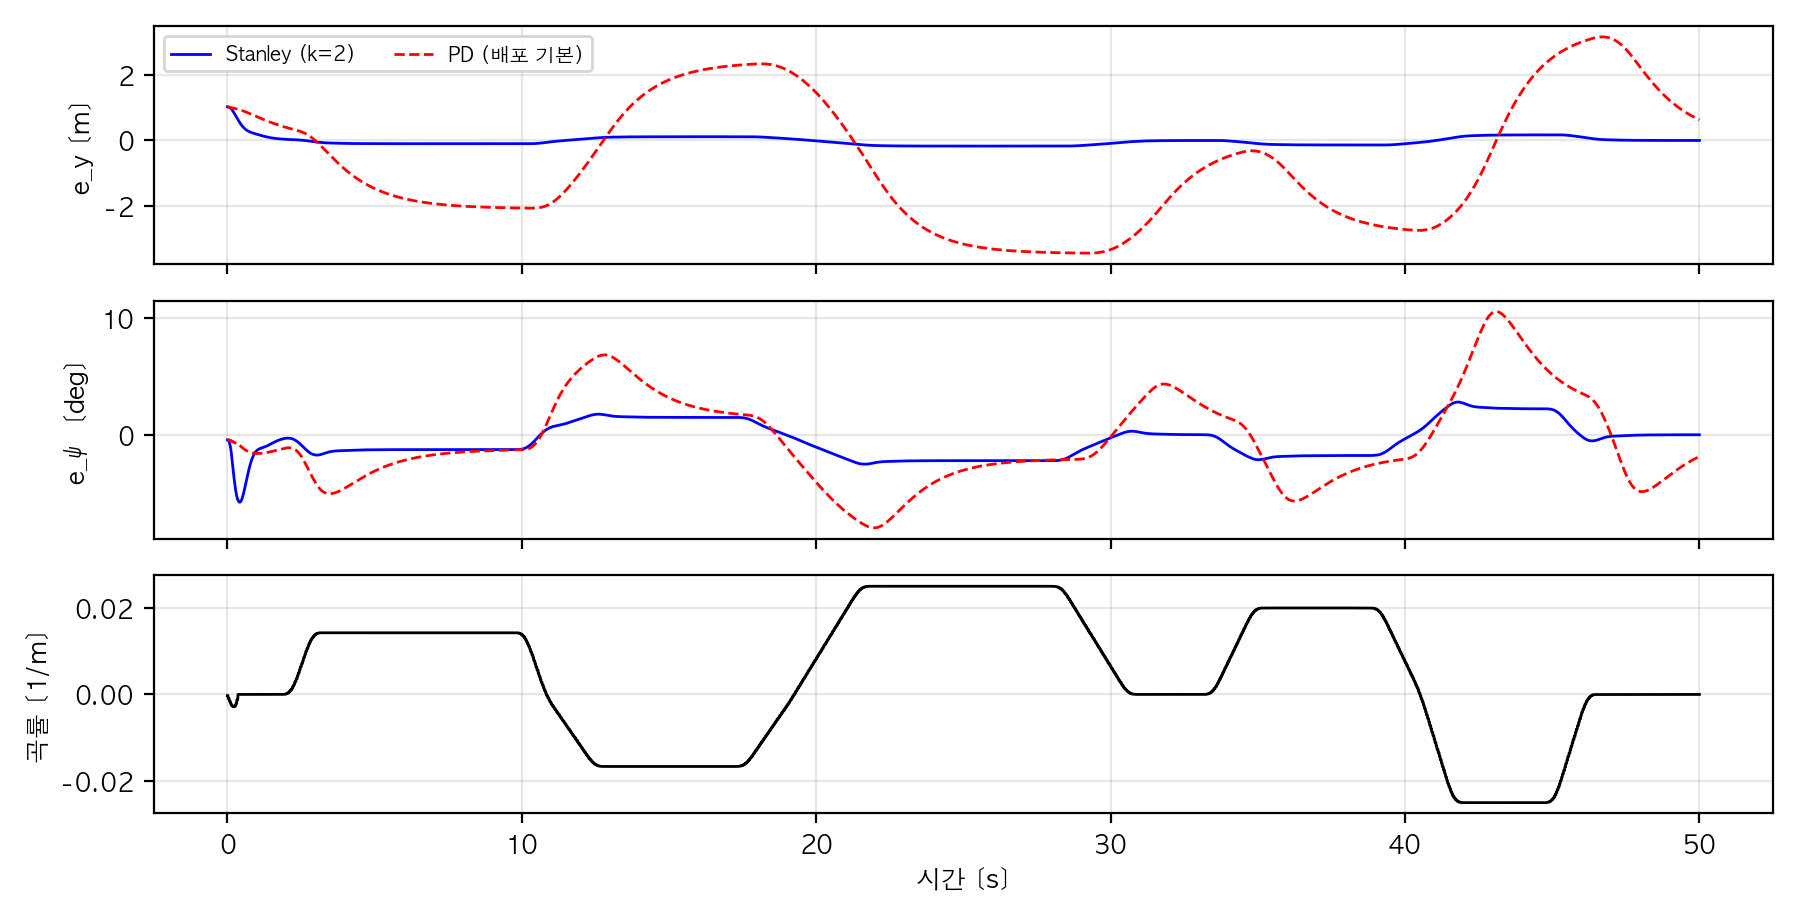
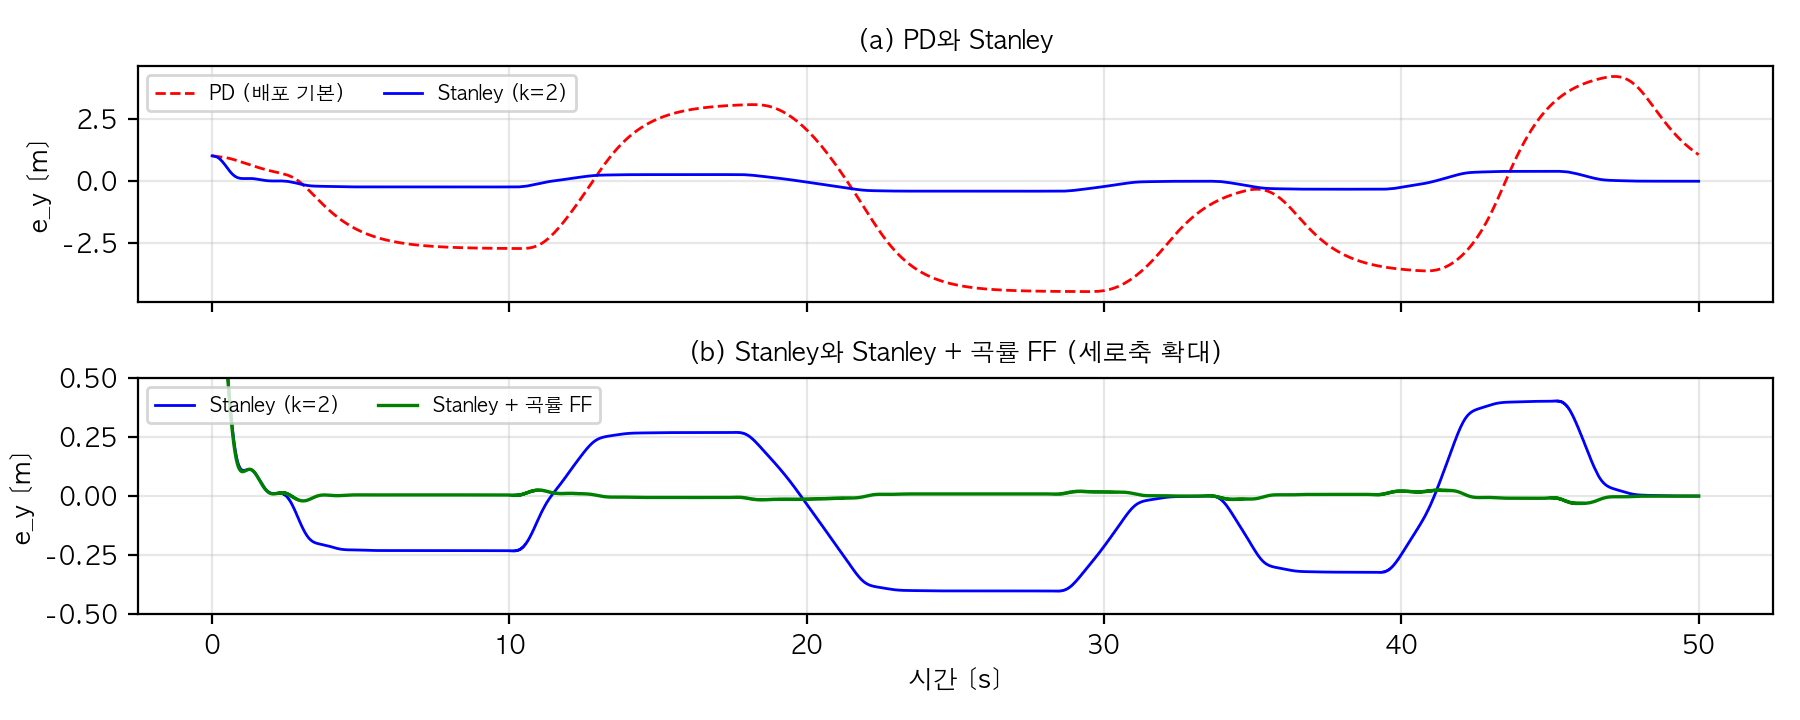
Add curvature feedforward with derived steady-state error; speed sweep
- Stanley_Control: curv input, delta_ff = kappa*(Lf + Kv*v^2), toggled by ff_st (default 0)
- add_stanley_block: idempotent, wires missing inputs only
- run_stanley_eval: Stanley/Stanley+FF/PD table, gain sweep, 30/50/70 km/h sweep with theory column
- figures and metrics regenerated from Simulink

diff --git a/matlab/run_stanley_eval.m b/matlab/run_stanley_eval.m
@@ -1,21 +1,26 @@
-%% run_stanley_eval.m  경로 4종 x 차량모델 2종 x 제어기 2종 + 게인 스윕, Simulink 일괄 실행
+%% run_stanley_eval.m  Stanley 평가 일괄 실행 (Simulink)
 % add_stanley_block 적용한 배포 폴더를 현재 폴더로 두고 실행 (결과: stanley_eval.mat)
 % 주의: 현재 폴더·MATLAB 경로에 한글 폴더가 있으면 MATLAB Function 블록 컴파일 실패
+%   T  : 경로 4종 x 차량모델 2종 x {Stanley, Stanley+FF, PD}
+%   S  : 게인 스윕 (순수 Stanley, 직선·레이스트랙)
+%   V  : 속도 스윕 (원형·레이스트랙, 30/50/70 km/h, FF 유무) + 원형 정상상태 오차 이론값
 clear; close all; clc
 mdl = 'PathTracking_26_02_261111';
 load_system(mdl);
 names = {'linear','circular','right_turn','racetrack'};
 rmse  = @(x) sqrt(mean(x.^2));
+P = struct('L', 2.7, 'lf', 1.08, 'lr', 1.62, 'm', 1573, 'Cf', 1.6e5);   % 정상상태 이론값용
 
 rows = {}; logs = struct();
+cfg = {'stanley', 2, 0; 'stanley_ff', 2, 1; 'pd', 1, 0};
 for Path_mode = 1:4
-    for vm = 1:2                    % 1 : kinematic / 2 : dynamic
-        for cm = [2 1]              % 2 : Stanley / 1 : PID 블록(배포 기본 PD)
-            o = run1(mdl, Path_mode, vm, cm, 2.0);
+    for vm = 1:2                                % 1 : kinematic / 2 : dynamic
+        for c = 1:size(cfg, 1)
+            o = run1(mdl, Path_mode, vm, cfg{c, 2}, 2.0, cfg{c, 3}, 50/3.6);
             last5 = o.t >= o.t(end) - 5;
-            rows(end+1, :) = {names{Path_mode}, vm, cm, rmse(o.e_y), max(abs(o.e_y)), ...
+            rows(end+1, :) = {names{Path_mode}, vm, cfg{c, 1}, rmse(o.e_y), max(abs(o.e_y)), ...
                 rad2deg(rmse(o.e_yaw)), max(abs(o.Ay)), rmse(o.e_y(last5)), o.t(end)}; %#ok<SAGROW>
-            logs.(sprintf('%s_m%d_c%d', names{Path_mode}, vm, cm)) = o;
+            logs.(sprintf('%s_m%d_%s', names{Path_mode}, vm, cfg{c, 1})) = o;
         end
     end
 end
@@ -24,7 +29,7 @@ sweep = {};
 for vm = 1:2
     for kk = [0.5 1 1.5 2 2.5 3 4]
         for Path_mode = [1 4]
-            o = run1(mdl, Path_mode, vm, 2, kk);
+            o = run1(mdl, Path_mode, vm, 2, kk, 0, 50/3.6);
             bad = find(abs(o.e_y) >= 0.05, 1, 'last');
             ts = NaN; if bad < numel(o.t), ts = o.t(bad+1); end
             sweep(end+1, :) = {names{Path_mode}, vm, kk, rmse(o.e_y), max(abs(o.Ay)), ts, -min(o.e_y)}; %#ok<SAGROW>
@@ -34,23 +39,44 @@ for vm = 1:2
         end
     end
 end
+
+spd = {};
+for v_kph = [30 50 70]
+    v = v_kph/3.6;
+    for vm = 1:2
+        for ff = [0 1]
+            oc = run1(mdl, 2, vm, 2, 2.0, ff, v);              % 원형 R = 100 m
+            ss = oc.t >= oc.t(end) - 10;
+            kap = 0.01; beta_ss = P.lr*kap - (vm == 2)*P.m*P.lf*v^2*kap/(P.L*P.Cf);
+            e_fa = -(v + 1)/2*kap*(P.lf + (vm == 2)*P.m*P.lr*v^2/(P.L*P.Cf));
+            e_th = (1 - ff)*(e_fa + P.lf*sin(beta_ss));          % 무게중심 기준 이론 정상상태 오차
+            orr = run1(mdl, 4, vm, 2, 2.0, ff, v);             % 레이스트랙
+            spd(end+1, :) = {v_kph, vm, ff, mean(oc.e_y(ss)), e_th, rmse(orr.e_y), max(abs(orr.e_y)), max(abs(orr.Ay))}; %#ok<SAGROW>
+        end
+    end
+end
 close_system(mdl, 0);
 
 T = cell2table(rows, 'VariableNames', {'path','vehicle','ctrl','rmse_ey','max_ey','rmse_eyaw_deg','max_ay','ey_last5','t_end'});
 S = cell2table(sweep, 'VariableNames', {'path','vehicle','k','rmse_ey','max_ay','settle_5cm','overshoot'});
-disp(T); disp(S);
-save('stanley_eval.mat', 'T', 'S', 'logs');
+V = cell2table(spd, 'VariableNames', {'v_kph','vehicle','ff','circ_ss_ey','circ_ss_theory','race_rmse','race_max_ey','race_max_ay'});
+disp(T); disp(S); disp(V);
+save('stanley_eval.mat', 'T', 'S', 'V', 'logs');
 
 
-function o = run1(mdl, Path_mode, vm, cm, k)
+function o = run1(mdl, Path_mode, vm, cm, k, ff, v0)
 % 모델 InitFcn 이 기본 작업공간에서 init_param 을 다시 부르므로 변수는 base 에 둔다
-    vals = {'Path_mode', Path_mode; 'ey0', 1.0; 'ephi0', 0; 'k_st', k; 'Controller_mode', cm; ...
-            'sim_time', 50.0; 'Ts', 0.01};
+    vals = {'Path_mode', Path_mode; 'ey0', 1.0; 'ephi0', 0; 'k_st', k; 'ff_st', ff; ...
+            'Controller_mode', cm; 'sim_time', 50.0; 'Ts', 0.01};
     for i = 1:size(vals, 1), assignin('base', vals{i, 1}, vals{i, 2}); end
     evalin('base', 'init_param;');
     in = Simulink.SimulationInput(mdl);
     in = in.setBlockParameter([mdl '/Vis_on'], 'Value', 'false');
     in = in.setBlockParameter([mdl '/2DOF Bicycle  Model/Vehicle Model'], 'Value', num2str(vm));
+    assignin('base', 'v_run', v0);                                % 등속 주행 속도 (Vx0 · Vx_max 대신)
+    vi = [mdl '/2DOF Bicycle  Model/Discrete-Time' newline 'Integrator1'];
+    in = in.setBlockParameter(vi, 'InitialCondition', 'v_run');
+    in = in.setBlockParameter(vi, 'UpperSaturationLimit', 'v_run');
     out = sim(in);
     o = struct('t', out.get('tout'), 'X', out.get('X_msr'), 'Y', out.get('Y_msr'), 'e_y', out.get('e_y'), ...
                'e_yaw', out.get('e_yaw'), 'SWA_act', out.get('SWA_act_rad'), 'Ay', out.get('Ay'), ...

diff --git a/matlab/add_stanley_block.m b/matlab/add_stanley_block.m
@@ -1,13 +1,14 @@
 function add_stanley_block(dist_dir)
-%ADD_STANLEY_BLOCK  배포 모델에 Stanley Control 블록을 삽입 (1회 실행)
-%   add_stanley_block('…/실습 1차 배포 버전(261111)')
+%ADD_STANLEY_BLOCK  배포 모델에 Stanley Control 블록을 삽입하거나 최신 코드로 갱신
+%   add_stanley_block('<배포 폴더>')     % 여러 번 실행해도 됨
 %
-%   1) 원본 .slx 를 *_backup.slx 로 복사
-%   2) Path Tracking Controller 안에 MATLAB Function 블록 'Stanley Control' 추가
-%      (k_st, eps_st, Lf_st 는 작업공간 Parameter)
-%   3) From(e_y, e_yaw, vx) -> Stanley -> Multiport Switch 3번 포트(데이터 2번) 연결
+%   1) 원본 .slx 를 *_backup.slx 로 복사 (최초 1회)
+%   2) Path Tracking Controller 안에 MATLAB Function 블록 'Stanley Control' 추가 또는 코드 갱신
+%      (k_st, eps_st, Lf_st, Kv_st, ff_st 는 작업공간 Parameter)
+%   3) From(e_y, e_yaw, vx, curv) -> Stanley -> Multiport Switch 3번 포트(데이터 2번) 연결 (빠진 것만)
 %   4) Controller 상수를 변수 Controller_mode 로 바꿈 (1=PID, 2=Stanley)
 %   5) stanley_param.m 을 배포 폴더에 복사, init_param.m 끝에 호출 추가
+%   주의: 시뮬레이션은 한글 없는 경로에서 실행해야 함 (MATLAB Function 블록 컴파일 실패)
 
     here = fileparts(mfilename('fullpath'));
     mdl  = 'PathTracking_26_02_261111';
@@ -20,34 +21,39 @@ function add_stanley_block(dist_dir)
     sys = [mdl '/Path Tracking Controller'];
     blk = [sys '/Stanley Control'];
     sw  = [sys '/Multiport' newline 'Switch'];
-    if getSimulinkBlockHandle(blk) > 0
-        error('Stanley Control 블록이 이미 있음. 백업(%s)에서 복원 후 재실행', bak);
-    end
 
-    % --- MATLAB Function 블록
-    p = get_param([sys '/PID Control'], 'Position');
-    pos = p + [0 160 0 160];
-    add_block('simulink/User-Defined Functions/MATLAB Function', blk, 'Position', pos);
+    % --- MATLAB Function 블록 (없으면 생성)
+    if getSimulinkBlockHandle(blk) < 0
+        p = get_param([sys '/PID Control'], 'Position');
+        add_block('simulink/User-Defined Functions/MATLAB Function', blk, 'Position', p + [0 160 0 160]);
+    end
+    pos = get_param(blk, 'Position');
     ch = find(sfroot, '-isa', 'Stateflow.EMChart', 'Path', blk);
     ch.Script = fileread(fullfile(here, 'Stanley_Control.m'));
-    for n = {'k_st', 'eps_st', 'Lf_st'}
+    for n = {'k_st', 'eps_st', 'Lf_st', 'Kv_st', 'ff_st'}
         d = ch.find('-isa', 'Stateflow.Data', 'Name', n{1});
         d.Scope = 'Parameter';
     end
 
-    % --- 입력 From 블록 (Goto 태그는 서브시스템 안에 이미 있음)
-    tags = {'e_y', 'e_yaw', 'vx'};
-    for i = 1:3
+    % --- 입력 From 블록 : 연결 안 된 포트만 (Goto 태그는 서브시스템 안에 이미 있음)
+    tags = {'e_y', 'e_yaw', 'vx', 'curv'};
+    pc = get_param(blk, 'PortConnectivity');
+    for i = 1:numel(tags)
+        if pc(i).SrcBlock ~= -1, continue; end
         fb = sprintf('%s/From_st_%s', sys, tags{i});
-        add_block('simulink/Signal Routing/From', fb, 'GotoTag', tags{i}, ...
-            'Position', [pos(1)-120, pos(2)+20*(i-1), pos(1)-60, pos(2)+20*(i-1)+14]);
+        if getSimulinkBlockHandle(fb) < 0
+            add_block('simulink/Signal Routing/From', fb, 'GotoTag', tags{i}, ...
+                'Position', [pos(1)-120, pos(2)+20*(i-1), pos(1)-60, pos(2)+20*(i-1)+14]);
+        end
         add_line(sys, sprintf('From_st_%s/1', tags{i}), sprintf('Stanley Control/%d', i), ...
             'autorouting', 'on');
     end
 
-    % --- 스위치 포트 확장 + 연결
-    set_param(sw, 'Inputs', '2');
-    add_line(sys, 'Stanley Control/1', ['Multiport' newline 'Switch/3'], 'autorouting', 'on');
+    % --- 스위치 포트 확장 + 연결 (최초 1회)
+    if str2double(get_param(sw, 'Inputs')) < 2
+        set_param(sw, 'Inputs', '2');
+        add_line(sys, 'Stanley Control/1', ['Multiport' newline 'Switch/3'], 'autorouting', 'on');
+    end
     set_param([sys '/Controller'], 'Value', 'Controller_mode');
 
     save_system(mdl);
@@ -61,5 +67,5 @@ function add_stanley_block(dist_dir)
         fprintf(fid, '\n%%%% Stanley Control\nstanley_param;\n');
         fclose(fid);
     end
-    fprintf('완료: %s 에 Stanley Control 추가. run_simulation 실행\n', mdl);
+    fprintf('완료: %s 의 Stanley Control 추가/갱신. run_simulation 실행\n', mdl);
 end

diff --git a/sim/plot_simulink.py b/sim/plot_simulink.py
@@ -20,7 +20,7 @@ lg = lambda k: getattr(L, k)
 fig, axs = plt.subplots(1, 4, figsize=(11, 2.9))
 titles = ["직선", "원형(R=100 m)", "우회전 폐곡선", "레이스트랙"]
 for ax, name, ttl in zip(axs, ["linear", "circular", "right_turn", "racetrack"], titles):
-    o = lg(f"{name}_m1_c2")
+    o = lg(f"{name}_m1_stanley")
     ax.plot(o.Path[0], o.Path[1], "--", color="0.6", lw=1.5, label="목표 경로")
     ax.plot(o.X, o.Y, "b", lw=1, label="Stanley 궤적")
     ax.set_title(ttl); ax.set_aspect("equal", "datalim"); ax.grid(alpha=.3); ax.set_xlabel("X [m]")
@@ -42,17 +42,17 @@ axs[0].legend(fontsize=7)
 for a in axs: a.grid(alpha=.3)
 fig.tight_layout(); fig.savefig(os.path.join(out, "fig2_step_gain.png"), dpi=200); plt.close(fig)
 
-# 그림 3: 레이스트랙 시계열 (Stanley vs PD, kinematic)
-fig, axs = plt.subplots(3, 1, figsize=(9, 4.6), sharex=True)
-for tag, st, lab in (("c2", "b", "Stanley (k=2)"), ("c1", "r--", "PD (배포 기본)")):
-    o = lg(f"racetrack_m1_{tag}")
-    axs[0].plot(o.t, o.e_y, st, lw=1, label=lab)
-    axs[1].plot(o.t, np.degrees(o.e_yaw), st, lw=1)
-    if tag == "c2":
-        axs[2].plot(o.t, o.curv, "k", lw=1)
-axs[0].set_ylabel("e_y [m]"); axs[1].set_ylabel("e_ψ [deg]"); axs[2].set_ylabel("곡률 [1/m]")
-axs[2].set_xlabel("시간 [s]"); axs[0].legend(fontsize=7, ncol=2)
-for a in axs: a.grid(alpha=.3)
+# 그림 3: 레이스트랙 (dynamic) — (a) PD vs Stanley, (b) Stanley vs Stanley+FF 확대
+fig, axs = plt.subplots(2, 1, figsize=(9, 3.6), sharex=True)
+o = {t: lg(f"racetrack_m2_{t}") for t in ("pd", "stanley", "stanley_ff")}
+axs[0].plot(o["pd"].t, o["pd"].e_y, "r--", lw=1, label="PD (배포 기본)")
+axs[0].plot(o["stanley"].t, o["stanley"].e_y, "b", lw=1, label="Stanley (k=2)")
+axs[1].plot(o["stanley"].t, o["stanley"].e_y, "b", lw=1, label="Stanley (k=2)")
+axs[1].plot(o["stanley_ff"].t, o["stanley_ff"].e_y, "g", lw=1.2, label="Stanley + 곡률 FF")
+axs[1].set_ylim(-0.5, 0.5)
+axs[0].set_ylabel("e_y [m]"); axs[1].set_ylabel("e_y [m]"); axs[1].set_xlabel("시간 [s]")
+axs[0].set_title("(a) PD와 Stanley", fontsize=9); axs[1].set_title("(b) Stanley와 Stanley + 곡률 FF (세로축 확대)", fontsize=9)
+for a in axs: a.grid(alpha=.3); a.legend(fontsize=7, ncol=2, loc="upper left")
 fig.tight_layout(); fig.savefig(os.path.join(out, "fig3_racetrack.png"), dpi=200); plt.close(fig)
 
 print("figures saved to", out)

diff --git a/matlab/Stanley_Control.m b/matlab/Stanley_Control.m
@@ -1,11 +1,14 @@
-function delta = Stanley_Control(e_y, e_yaw, vx, k_st, eps_st, Lf_st)
-%STANLEY_CONTROL  Stanley 경로 추종 제어기 (MATLAB Function 블록 본문)
+function delta = Stanley_Control(e_y, e_yaw, vx, curv, k_st, eps_st, Lf_st, Kv_st, ff_st)
+%STANLEY_CONTROL  Stanley 경로 추종 제어기 + 곡률 피드포워드 (MATLAB Function 블록 본문)
 %   e_y    : 횡방향 오차 [m]   (무게중심 기준, 차량이 경로 좌측이면 +)
 %   e_yaw  : 헤딩 오차 [rad]   (차량이 경로보다 좌측을 향하면 +)
 %   vx     : 종방향 속도 [m/s]
+%   curv   : 경로 곡률 [1/m]   (좌선회 +)
 %   k_st   : 횡오차 게인 [1/s]
 %   eps_st : 저속 발산 방지 속도 [m/s]
 %   Lf_st  : 무게중심~전륜축 거리 [m]
+%   Kv_st  : 슬립 보상 계수 m*lr/(L*Cf) [s^2/m]   (Cf : 전륜 축 코너링 강성)
+%   ff_st  : 1 = 곡률 피드포워드 사용, 0 = 순수 Stanley
 %   delta  : 전륜 조향각 [rad] (좌회전 +)
 %#codegen
 
@@ -13,6 +16,10 @@ function delta = Stanley_Control(e_y, e_yaw, vx, k_st, eps_st, Lf_st)
     % ponytail: 곡률 항(Lf^2*kappa/2) 생략, R=50 m에서 약 1 cm 오차
     e_fa = e_y + Lf_st*sin(e_yaw);
 
-    % 부호 규약상 오차가 +이면 우회전(-) 조향이 필요
+    % 순수 Stanley : 부호 규약상 오차가 +이면 우회전(-) 조향
     delta = -(e_yaw + atan2(k_st*e_fa, vx + eps_st));
+
+    % 정상상태 원선회에서 순수 Stanley는 e_fa = -(v+eps)/k * kappa*(Lf + Kv*v^2) 만큼 바깥으로 밀림.
+    % 그만큼을 미리 더해 정상상태 오차를 0으로 만든다 (2DOF 선형 bicycle 모델 기준 유도).
+    delta = delta + ff_st * curv * (Lf_st + Kv_st*vx^2);
 end

diff --git a/matlab/stanley_param.m b/matlab/stanley_param.m
@@ -5,4 +5,6 @@
 if ~exist('Controller_mode', 'var'), Controller_mode = 2;   end  % 1 : PID Control / 2 : Stanley Control
 if ~exist('k_st', 'var'),            k_st   = 2.0;          end  % 횡오차 게인 [1/s] (k >= 3 이면 dynamic 모델 발산, 조향 레이트 제한 포화)
 if ~exist('eps_st', 'var'),          eps_st = 1.0;          end  % 저속 발산 방지 [m/s]
+if ~exist('ff_st', 'var'),           ff_st  = 0;            end  % 1 : 곡률 피드포워드 (dynamic 모델 평가 시 권장) / 0 : 순수 Stanley
 Lf_st = VehicleParam.Lf;                                         % 무게중심~전륜축 [m] (1.08 m)
+Kv_st = VehicleParam.m*VehicleParam.Lr/(VehicleParam.L*2*VehicleParam.Cf);  % 슬립 보상 [s^2/m] (Cf 는 타이어 1개 값, 축은 x2)

diff --git a/README.md b/README.md
@@ -7,10 +7,14 @@ Simulink `PathTracking` 모델의 Path Tracking Controller 빈 슬롯(Multiport 
 ## 제어 법칙
 
 ```
-e_fa  = e_y + Lf·sin(e_ψ)                    % 무게중심 오차 -> 전륜축 오차
-δ     = -( e_ψ + atan( k·e_fa / (v_x + ε) ) )
+e_fa  = e_y + Lf·sin(e_ψ)                                   % 무게중심 오차 -> 전륜축 오차
+δ     = -( e_ψ + atan( k·e_fa / (v_x + ε) ) ) + ff·δ_ff
+δ_ff  = κ·( Lf + Kv·v_x² ),  Kv = m·Lr / (L·Cf)              % 곡률 피드포워드 (ff_st = 1)
 ```
 부호: 모델 규약상 `e_y > 0`(차량이 경로 좌측), `e_ψ > 0`(좌측을 향함)일 때 우조향(δ < 0).
+
+순수 Stanley의 원선회 정상상태 오차는 `e_fa = -((v+ε)/k)·κ·(Lf + Kv·v²)` (2DOF bicycle 선형화). Simulink 원형 경로 결과와 3~11% 이내로 일치.
+`δ_ff`는 이 오차를 미리 보상하는 항. dynamic 모델 기준 계수라 kinematic 모델에서는 과보상 → `ff_st` 기본값 0, dynamic 평가 때 1.
 
 ## MATLAB 적용 (R2026a에서 검증)
 
@@ -28,6 +32,18 @@ run_stanley_eval                   % 경로 4종 x 차량모델 2종 x 제어기
 
 모델 `InitFcn` 콜백이 시뮬레이션마다 `init_param`을 다시 부르므로, `stanley_param.m`은 이미 있는 `k_st`·`eps_st`·`Controller_mode`를 덮어쓰지 않음. 게인은 `stanley_param.m` 기본값을 고치거나, `clear all` 없이 작업공간에서 바꾼 뒤 실행.
 
+## 팀원용: 시뮬레이션 돌리기 전 체크
+
+1. **경로에 한글 금지.** MATLAB 설치 폴더, 실습 폴더, MATLAB 경로(addpath) 어디에든 한글이 있으면 MATLAB Function 블록 컴파일 실패.
+   - MATLAB에서 `matlabroot` 확인 → 한글 있으면 앱을 영문 폴더로 이동
+   - 실습 폴더를 `~/Documents/MATLAB/PBL_run` 같은 영문 경로에 복사해서 실행
+2. **파라미터는 파일에서 바꾸기.** 모델 InitFcn이 시뮬레이션마다 `init_param.m`을 다시 불러 작업공간 값을 덮어씀. 게인은 `init_param.m`(또는 개인 param 파일)을 수정.
+3. **제어기 추가 위치.** `Path Tracking Controller` 안 `Multiport Switch` 데이터 포트. 입력 수를 늘리고 `Controller` 상수 값으로 선택.
+   - 제안 번호: 1 PID · 2 Stanley · 3 Pure Pursuit · 4 LQR
+   - 같은 서브시스템에 Goto 태그 `e_y`, `e_yaw`, `vx`, `vy`, `yawrate`, `curv`, `Path_local` 있음 → From 블록으로 받으면 됨
+   - 출력은 전륜 조향각 [rad] (좌회전 +). 뒤에서 GearRatio ×15가 곱해짐
+   - 부호: `e_y > 0` 차량이 경로 왼쪽, `e_yaw > 0` 차량이 경로보다 왼쪽을 향함
+
 ## 결과 (Simulink, 50 km/h, 초기 횡오차 1 m)
 
 횡오차 RMSE [m] — 전체 표는 `results/metrics_simulink.txt`
@@ -38,6 +54,8 @@ run_stanley_eval                   % 경로 4종 x 차량모델 2종 x 제어기
 | 원형 R=100 | 0.105 | 0.179 | 1.427 | 1.883 |
 | 우회전 | 0.130 | 0.247 | 1.908 | 2.532 |
 | 레이스트랙 | 0.139 | 0.273 | 2.077 | 2.780 |
+
+곡률 피드포워드 (dynamic, k = 2): 레이스트랙 RMSE 0.273 → 0.094 m (50 km/h), 0.548 → 0.100 m (70 km/h). 원형 잔류 오차 −0.162 → 0.003 m.
 
 게인: kinematic k ≤ 3 안정, dynamic은 k = 3이 경계(직선 발산·레이스트랙 수렴), k = 4는 둘 다 발산.
 원인은 초기 오차에서 조향 명령이 레이트 제한(500 deg/s)에 걸리는 비선형 포화. Rate Limiter를 풀거나 초기 오차를 0.1 m로 줄이면 k = 8도 수렴. 기본값 k = 2.
